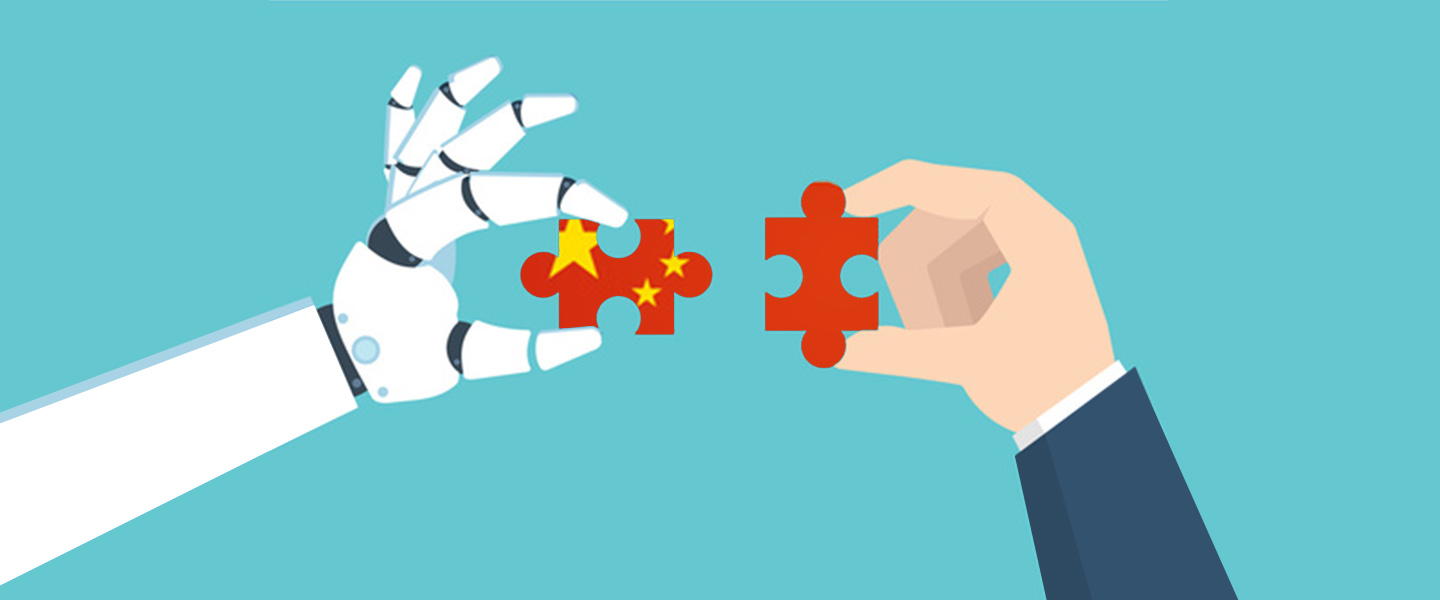
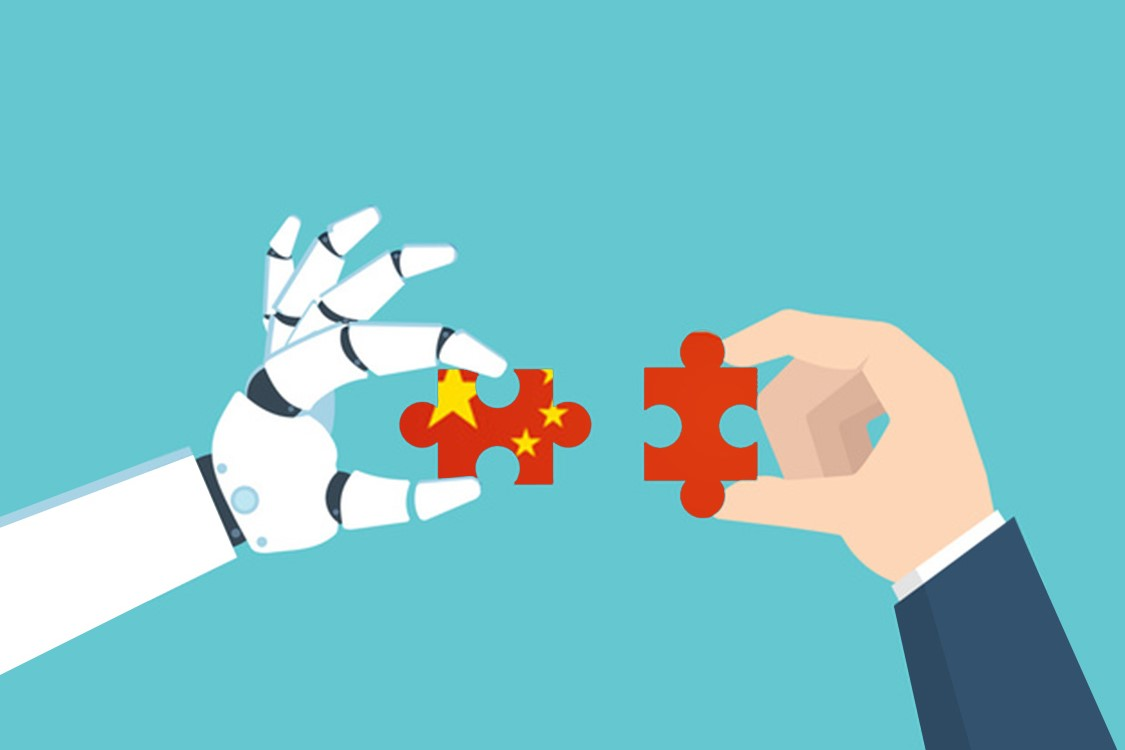
Updated cover image size - Datapipeline

Changed region(s): [[0.0, 0.09, 0.9956, 1.0], [0.0, 0.78, 0.1556, 0.99]]

diff --git a/content/blog/Full_data_science_pipeline_implementation/index.md b/content/blog/Full_data_science_pipeline_implementation/index.md
@@ -1,5 +1,5 @@
 ---
-title: " Full data_science pipeline implementation."
+title: " Full data science pipeline implementation."
 date: "2020-10-09"
 coverImage: "ds.jpg"
 author: "Rinki Nag"
